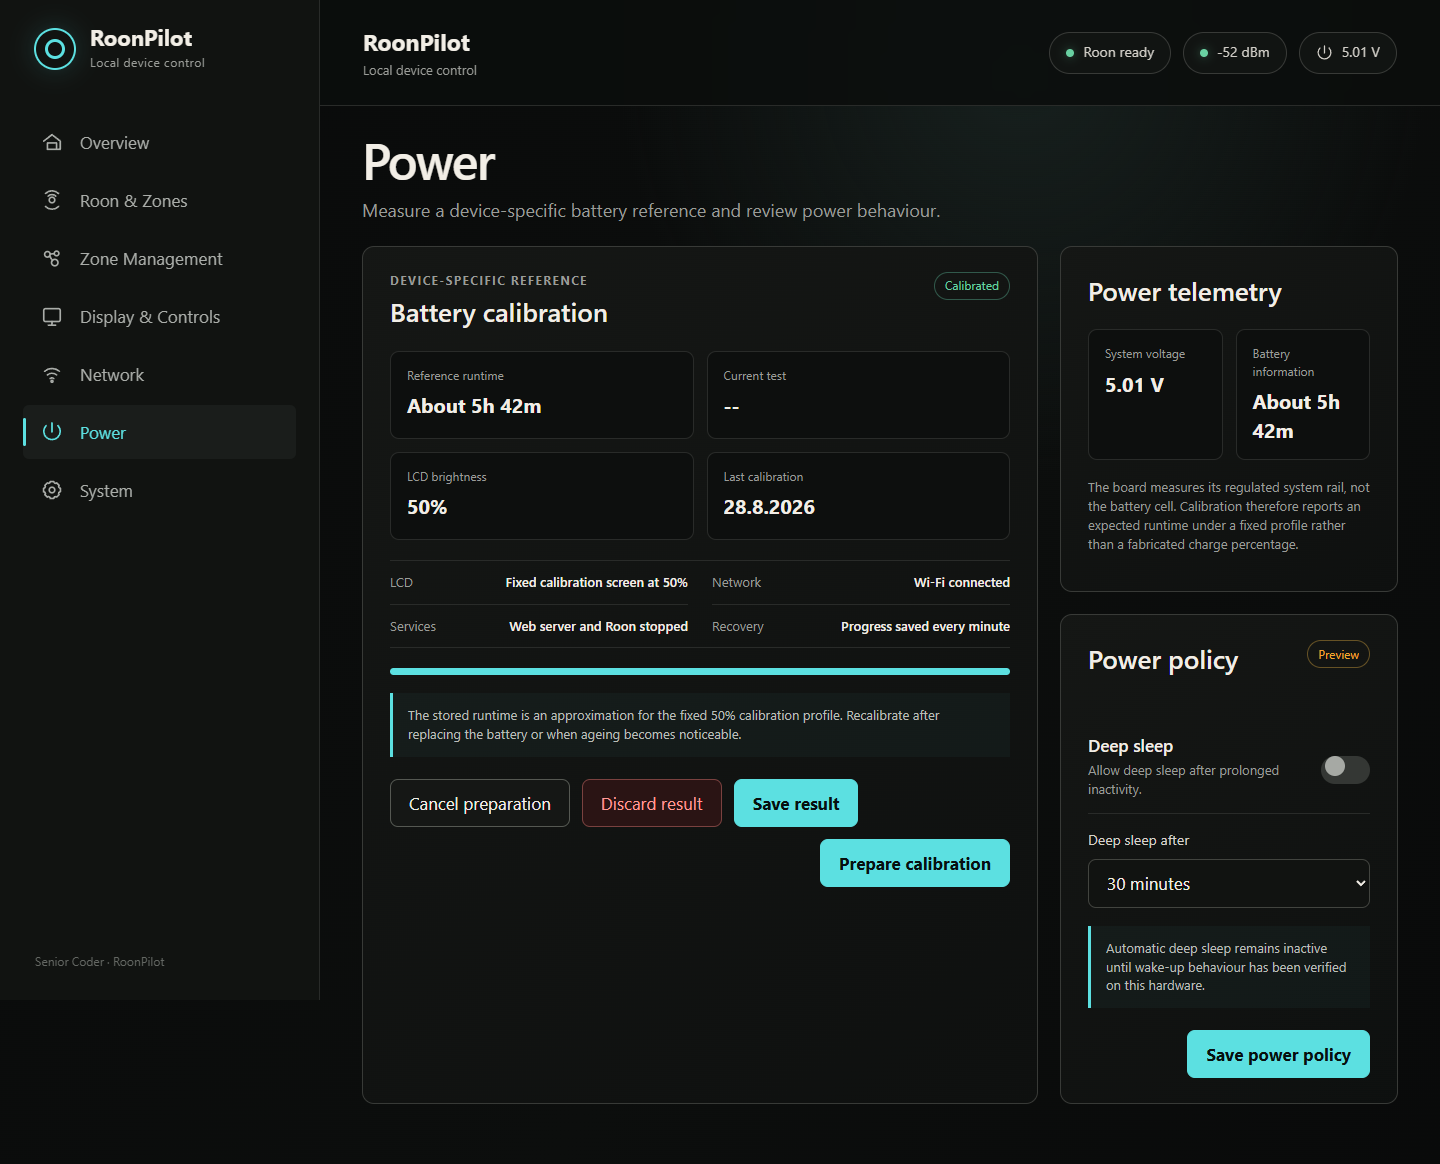
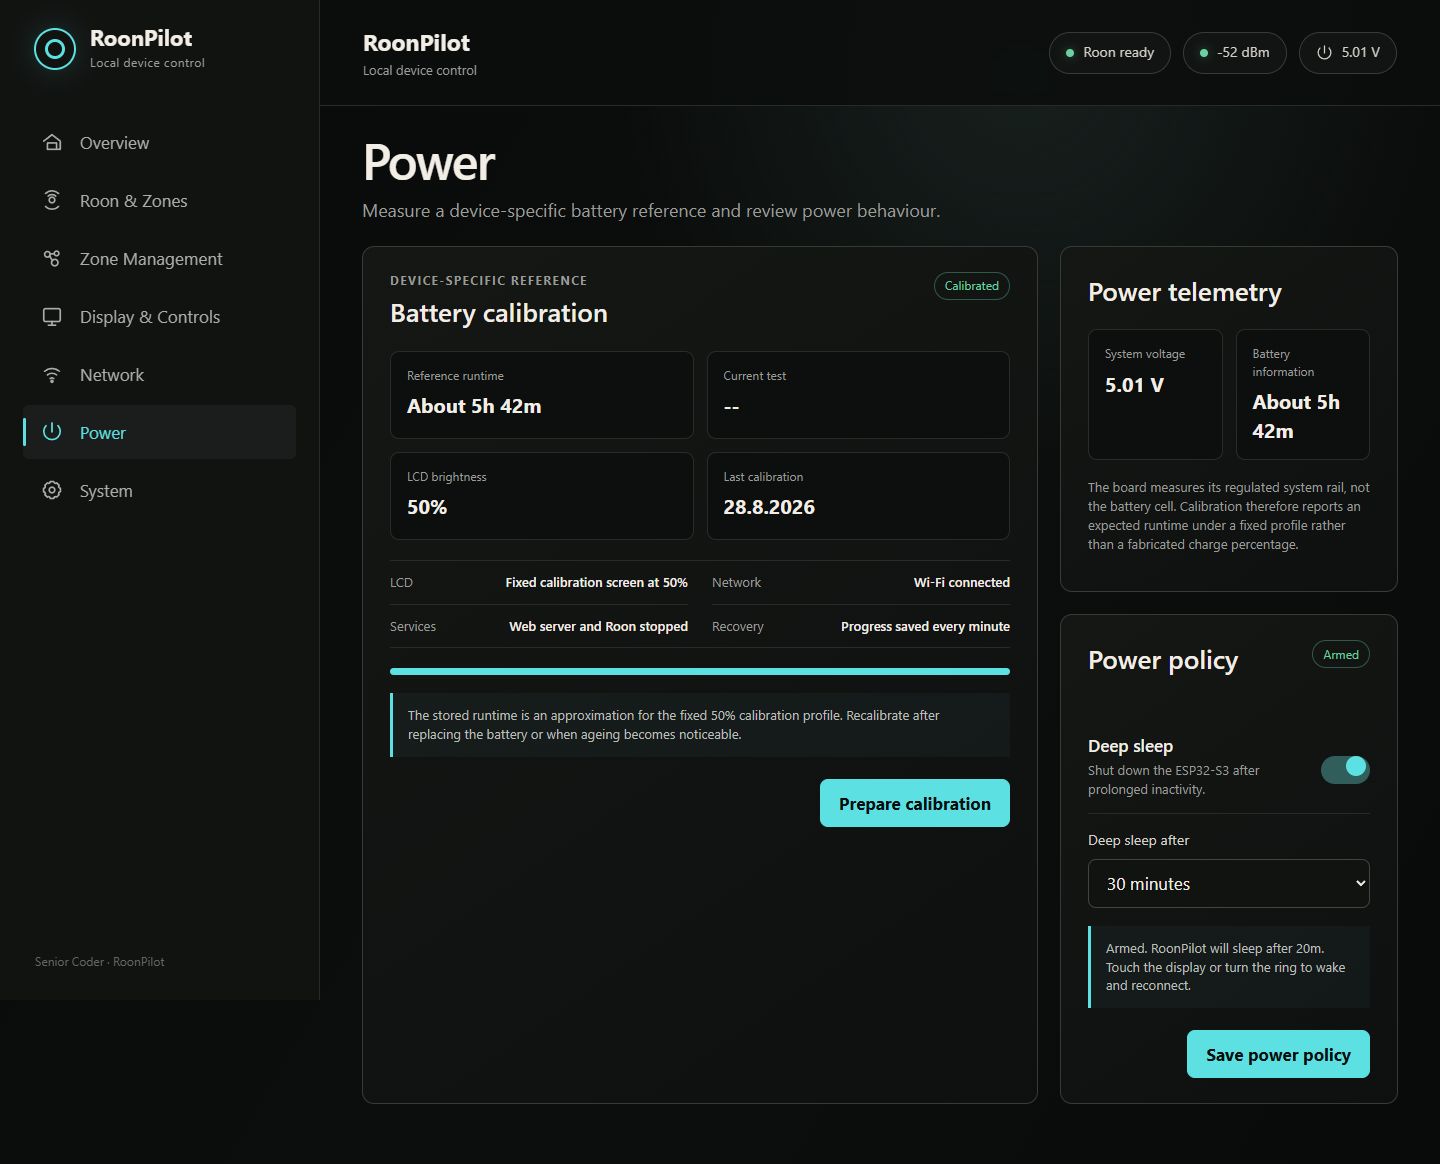
Document and validate guarded deep sleep

diff --git a/guides/deep-sleep.md b/guides/deep-sleep.md
@@ -1,0 +1,85 @@
+# Deep sleep
+
+Deep sleep is the lowest-power idle state of the main ESP32-S3. It is different
+from dimming, the idle clock and a black display: those modes keep RoonPilot
+running and reachable, while deep sleep stops the processor, Wi-Fi, Roon
+connection and local website. Waking performs a complete, automatic restart.
+
+## Enable it
+
+1. Open the local RoonPilot website.
+2. Select **Power**.
+3. Turn on **Deep sleep**.
+4. Choose **Deep sleep after**.
+5. Press **Save power policy**.
+
+The status badge shows:
+
+- **Disabled** when the switch is off;
+- **Waiting** when a safety condition prevents sleep;
+- **Armed** when the selected zone is paused/stopped and the idle countdown is
+  running.
+
+The timeout starts again after touch/ring input, a relevant playback-state
+change, a saved power-policy change or the end of a temporary safety block.
+
+## Conditions that must all be true
+
+RoonPilot enters deep sleep only when:
+
+- the feature is enabled and its timeout has expired;
+- the selected Roon zone is available;
+- that zone reports **paused** or **stopped**;
+- first-time/recovery AP setup is not active;
+- no firmware check, upload or installation is active;
+- battery calibration is not being prepared, run or reviewed.
+
+Playing, loading and buffering prevent deep sleep. A missing zone, disconnected
+Roon Server or unknown playback state also prevents it. This conservative rule
+avoids silently disconnecting a controller whose state cannot be proven idle.
+
+## Wake RoonPilot
+
+Either action wakes the main ESP32-S3:
+
+- touch the display; or
+- turn the outer ring far enough to produce an encoder edge.
+
+The wake gesture cannot send play, next/previous or volume because the firmware
+is not running yet. RoonPilot then boots normally, reconnects to Wi-Fi and Roon,
+restores its settings and selected zone, and makes the local website available
+again. This takes longer than waking a merely black display.
+
+Network packets, a browser request or a Roon command cannot wake deep sleep,
+because Wi-Fi is off. Use touch or the ring at the device.
+
+## What remains stored
+
+Deep sleep does not erase configuration, Wi-Fi credentials, Roon authorization,
+zone preferences, clocks, player layout or battery reference. It is equivalent
+to a power-saving shutdown followed by a normal boot, not a factory reset.
+
+The separate companion ESP32 has its own low-power firmware and is independent
+of this setting. The main Web Installer never changes the companion processor.
+
+## Safe test procedure
+
+1. Keep USB power connected for the first functional test.
+2. Select a working Roon zone and pause it.
+3. Enable deep sleep and choose the shortest available timeout.
+4. Do not touch the display, turn the ring, open setup or start an update.
+5. Confirm the Power badge becomes **Armed**.
+6. Wait for the LCD/backlight and local website to turn off.
+7. Touch once and confirm a normal boot and Wi-Fi/Roon reconnection.
+8. Repeat, waking with the ring.
+9. Start playback and confirm the device does not sleep after the same interval.
+
+After USB testing, repeat once on battery. Do not combine this with battery
+calibration, because calibration deliberately blocks deep sleep.
+
+## If it does not sleep or wake
+
+See [Troubleshooting](troubleshooting.md#deep-sleep-does-not-start) before
+changing or reflashing firmware. Serial diagnostics identify entry and an EXT1
+touch/encoder wake on the next boot.
+

diff --git a/guides/troubleshooting.md b/guides/troubleshooting.md
@@ -164,6 +164,34 @@ On the next boot, save the recovered result only if shutdown was the expected
 end of the untouched unplugged run. Discard results caused by reset, accidental
 power loss, update or cancellation.
 
+## Deep sleep does not start
+
+Open **Power** and check its badge. **Armed** means the countdown is running;
+**Waiting** means at least one required condition is missing.
+
+- Save the policy after enabling it and selecting a timeout.
+- Select an available Roon zone and make sure Roon reports paused or stopped.
+- Playing, loading, buffering, an unknown state or a disconnected/missing zone
+  deliberately keeps RoonPilot awake.
+- Finish/cancel Wi-Fi AP setup, firmware operations and battery calibration.
+- Stop touching the display, turning the ring or repeatedly saving settings;
+  these restart the idle countdown.
+- Check serial diagnostics for `Deep sleep postponed`: an active-low touch or
+  encoder pin prevents an immediate sleep/wake loop.
+
+## Deep sleep does not wake
+
+- A browser, Roon command or network packet cannot wake it because Wi-Fi is off.
+- Touch the display once, or turn the ring far enough to create an encoder edge.
+- Allow normal boot and Wi-Fi/Roon reconnection time.
+- If neither local input works, connect USB, capture serial output and restart.
+  The next log should identify an EXT1 wake and its GPIO status when wake works.
+- Do not erase flash; configuration is unrelated to electrical wake detection.
+
+Deep sleep and a black idle display are different. Black-screen wake is nearly
+immediate and consumes the first action. Deep-sleep wake always performs a full
+restart. See [Deep sleep](deep-sleep.md).
+
 ## Update failed
 
 Keep USB power attached, wait for rollback, record the version/partition and
@@ -176,4 +204,3 @@ Include firmware version, exact hardware order code, which processor was active,
 reproduction steps, expected/actual result and sanitized diagnostics. Never post
 Wi-Fi passwords, pairing material, private IP layouts you do not wish to expose,
 factory backups or the signing key.
-

diff --git a/README.md b/README.md
@@ -50,6 +50,8 @@ privacy and troubleshooting.
 - **Room selection on the device:** browse shown zones with touch or the ring,
   then select on the display.
 - **Useful idle modes:** black screen, station clock or digital clock with date.
+- **Real deep sleep:** optional ESP32-S3 shutdown while the selected zone is
+  paused/stopped, with touch and ring wake-up.
 - **Local configuration:** responsive web pages are served by RoonPilot itself.
 - **Private by design:** no cloud relay and no password in configuration exports.
 - **Recoverable updates:** signed A/B firmware updates with boot validation and
@@ -82,6 +84,7 @@ in the web interface.
 | Open Quick Settings | — | Swipe up on Now Playing |
 | Lock/unlock controls | — | Long-press the centre of the display |
 | Wake the screen/clock | Turn | Tap |
+| Wake from deep sleep | Turn, then wait for boot | Tap, then wait for boot |
 
 See [Device controls](guides/device-controls.md) for timing, locked-operation
 feedback, screen-off wake-up and settings details.
@@ -124,6 +127,7 @@ The pages cover:
 - rotary direction, step, acceleration and maximum-volume protection;
 - Wi-Fi status and network replacement;
 - battery runtime calibration and result history;
+- guarded deep-sleep timeout and wake policy;
 - firmware updates, diagnostics, safe export/import, restart and factory reset.
 
 View every page in the [web-interface reference](guides/web-interface.md).
@@ -199,6 +203,7 @@ guess a file or flash an image based only on its size.
 - [Firmware updates and recovery](guides/firmware-updates-and-recovery.md)
 - [Configuration export and import](guides/configuration-backup.md)
 - [Battery and runtime](guides/battery-and-runtime.md)
+- [Deep sleep](guides/deep-sleep.md)
 - [Troubleshooting](guides/troubleshooting.md)
 - [Privacy and security](guides/privacy-and-security.md)
 - [Beginner test plan](guides/test-plan.md)

diff --git a/guides/web-interface.md b/guides/web-interface.md
@@ -106,10 +106,16 @@ If the new details fail, the protected recovery AP starts after approximately
 
 Prepares, tracks and accepts/discards the device-specific battery runtime test.
 It reports the measured system rail honestly and explains that it cannot derive
-a precise cell percentage. Deep-sleep policy remains clearly marked as Preview
-until wake behaviour has completed hardware validation.
+a precise cell percentage.
 
-Read [Battery and runtime](battery-and-runtime.md) before starting a run.
+The Power policy card enables deep sleep and selects its idle timeout. Its live
+badge reads Disabled, Waiting or Armed. Sleep is armed only for an available
+selected zone that reports paused/stopped; Wi-Fi setup, firmware operations and
+battery calibration block it. Touch or ring movement wakes into a normal reboot,
+so Wi-Fi, Roon and this page need a moment to return.
+
+Read [Battery and runtime](battery-and-runtime.md) before starting a run and
+[Deep sleep](deep-sleep.md) before validating the power policy.
 
 ## System
 
@@ -157,4 +163,3 @@ This is a static HTTPS page hosted through GitHub Pages, not a page served by th
 device. It writes the complete Factory image to the main ESP32-S3 only. The
 validation URL is intentionally supplied separately and remains unlinked during
 the first test cycle.
-

diff --git a/guides/test-plan.md b/guides/test-plan.md
@@ -164,9 +164,24 @@ For Classic, Focus and Orbit:
 - [ ] Accept one valid and discard one deliberately interrupted result.
 - [ ] Complete at least two valid comparable runs; three preferred.
 
+## N. Deep sleep
+
+- [ ] Enable deep sleep and select the shortest timeout.
+- [ ] Confirm the Power badge says Waiting while the selected zone plays.
+- [ ] Pause the selected zone and confirm the badge says Armed.
+- [ ] Confirm the LCD/backlight, website and Roon connection stop after timeout.
+- [ ] Wake by touch; confirm a full boot, Wi-Fi/Roon reconnection and settings.
+- [ ] Enter deep sleep again and wake by turning the ring.
+- [ ] Confirm the wake gesture does not send transport or volume.
+- [ ] Confirm playing/loading/buffering prevents sleep.
+- [ ] Confirm no selected/available zone prevents sleep.
+- [ ] Confirm first-time/recovery AP setup prevents sleep.
+- [ ] Confirm local and online firmware operations prevent sleep.
+- [ ] Confirm battery preparation/running/review prevents sleep.
+- [ ] Repeat one sleep/wake cycle on battery after USB validation.
+
 ## Completion
 
 Version 1.0.0 should leave validation status only when all safety-critical flash,
 recovery, secret-removal and rollback tests pass, and all remaining known issues
 are explicitly documented.
-

diff --git a/guides/device-controls.md b/guides/device-controls.md
@@ -102,9 +102,20 @@ local website or other Roon remotes.
 - Touch or ring input wakes a black screen; repeat the intended action after it
   wakes.
 
+## Deep sleep
+
+Deep sleep is configured separately on the web **Power** page. It can start
+only after the selected zone has reported paused/stopped for the configured idle
+period. Touch or turn the ring to wake it. Unlike black-screen wake-up, this is a
+full boot: Wi-Fi and Roon reconnect before controls and the website return.
+
+Deep sleep is blocked during Wi-Fi setup, firmware work and battery calibration.
+It is also blocked while playing/loading/buffering or when the selected zone's
+state is unavailable. Network traffic cannot wake it. Read the complete
+[Deep-sleep guide](deep-sleep.md).
+
 ## Rotate 180 degrees
 
 Enable **Rotate display 180°** on Display & Controls if the device orientation
 requires it. Display and touch coordinates rotate together. This is independent
 of encoder direction.
-

diff --git a/guides/README.md b/guides/README.md
@@ -24,6 +24,7 @@ them part of the installation, not optional background reading.
 | Factory, local and online updates | [Firmware updates and recovery](firmware-updates-and-recovery.md) |
 | Settings backup | [Configuration export and import](configuration-backup.md) |
 | Battery limitations and calibration | [Battery and runtime](battery-and-runtime.md) |
+| Deep-sleep behaviour and wake-up | [Deep sleep](deep-sleep.md) |
 | Fault finding | [Troubleshooting](troubleshooting.md) |
 | What is and is not stored | [Privacy and security](privacy-and-security.md) |
 
@@ -46,4 +47,3 @@ Before opening a GitHub issue, read [Troubleshooting](troubleshooting.md) and
 download diagnostics from **System** if the local page still opens. Remove home
 Wi-Fi names, IP addresses, Roon metadata and any other private information from
 screenshots or logs before making them public.
-

diff --git a/guides/privacy-and-security.md b/guides/privacy-and-security.md
@@ -10,6 +10,10 @@ Normal runtime network activity consists of Wi-Fi/DHCP/time services, Roon
 discovery/session traffic, artwork retrieval from Roon and local HTTP requests.
 An online firmware check/download occurs only when that update path is used.
 
+When deep sleep is active, the main ESP32-S3, Wi-Fi connection, Roon session and
+local website are stopped. No network request can wake the device; a local touch
+or ring movement starts a complete boot and reconnects it.
+
 ## Stored locally
 
 - Wi-Fi SSID and password;
@@ -100,4 +104,3 @@ RoonPilot's direct/local design removes a companion cloud service and its data
 flow, but it does not make the LAN, physical flash or Roon installation
 automatically secure. Security depends on network configuration, physical
 access, current firmware and careful handling of backups.
-

diff --git a/guides/configuration-backup.md b/guides/configuration-backup.md
@@ -17,7 +17,7 @@ The schema includes the user-configurable non-secret state, including:
 - clock face, day/night brightness and schedule;
 - encoder direction, volume step, acceleration and maximum volume;
 - idle clock/black choice;
-- supported power-policy values;
+- deep-sleep enabled state and timeout;
 - accepted battery-calibration reference and metadata.
 
 ## Intentionally excluded secrets
@@ -51,4 +51,3 @@ Display and behaviour settings are portable. Zone IDs, server addresses and a
 battery runtime measured on one physical unit may be inappropriate on another.
 After import, review Roon & Zones and repeat battery calibration on the target
 hardware.
-
